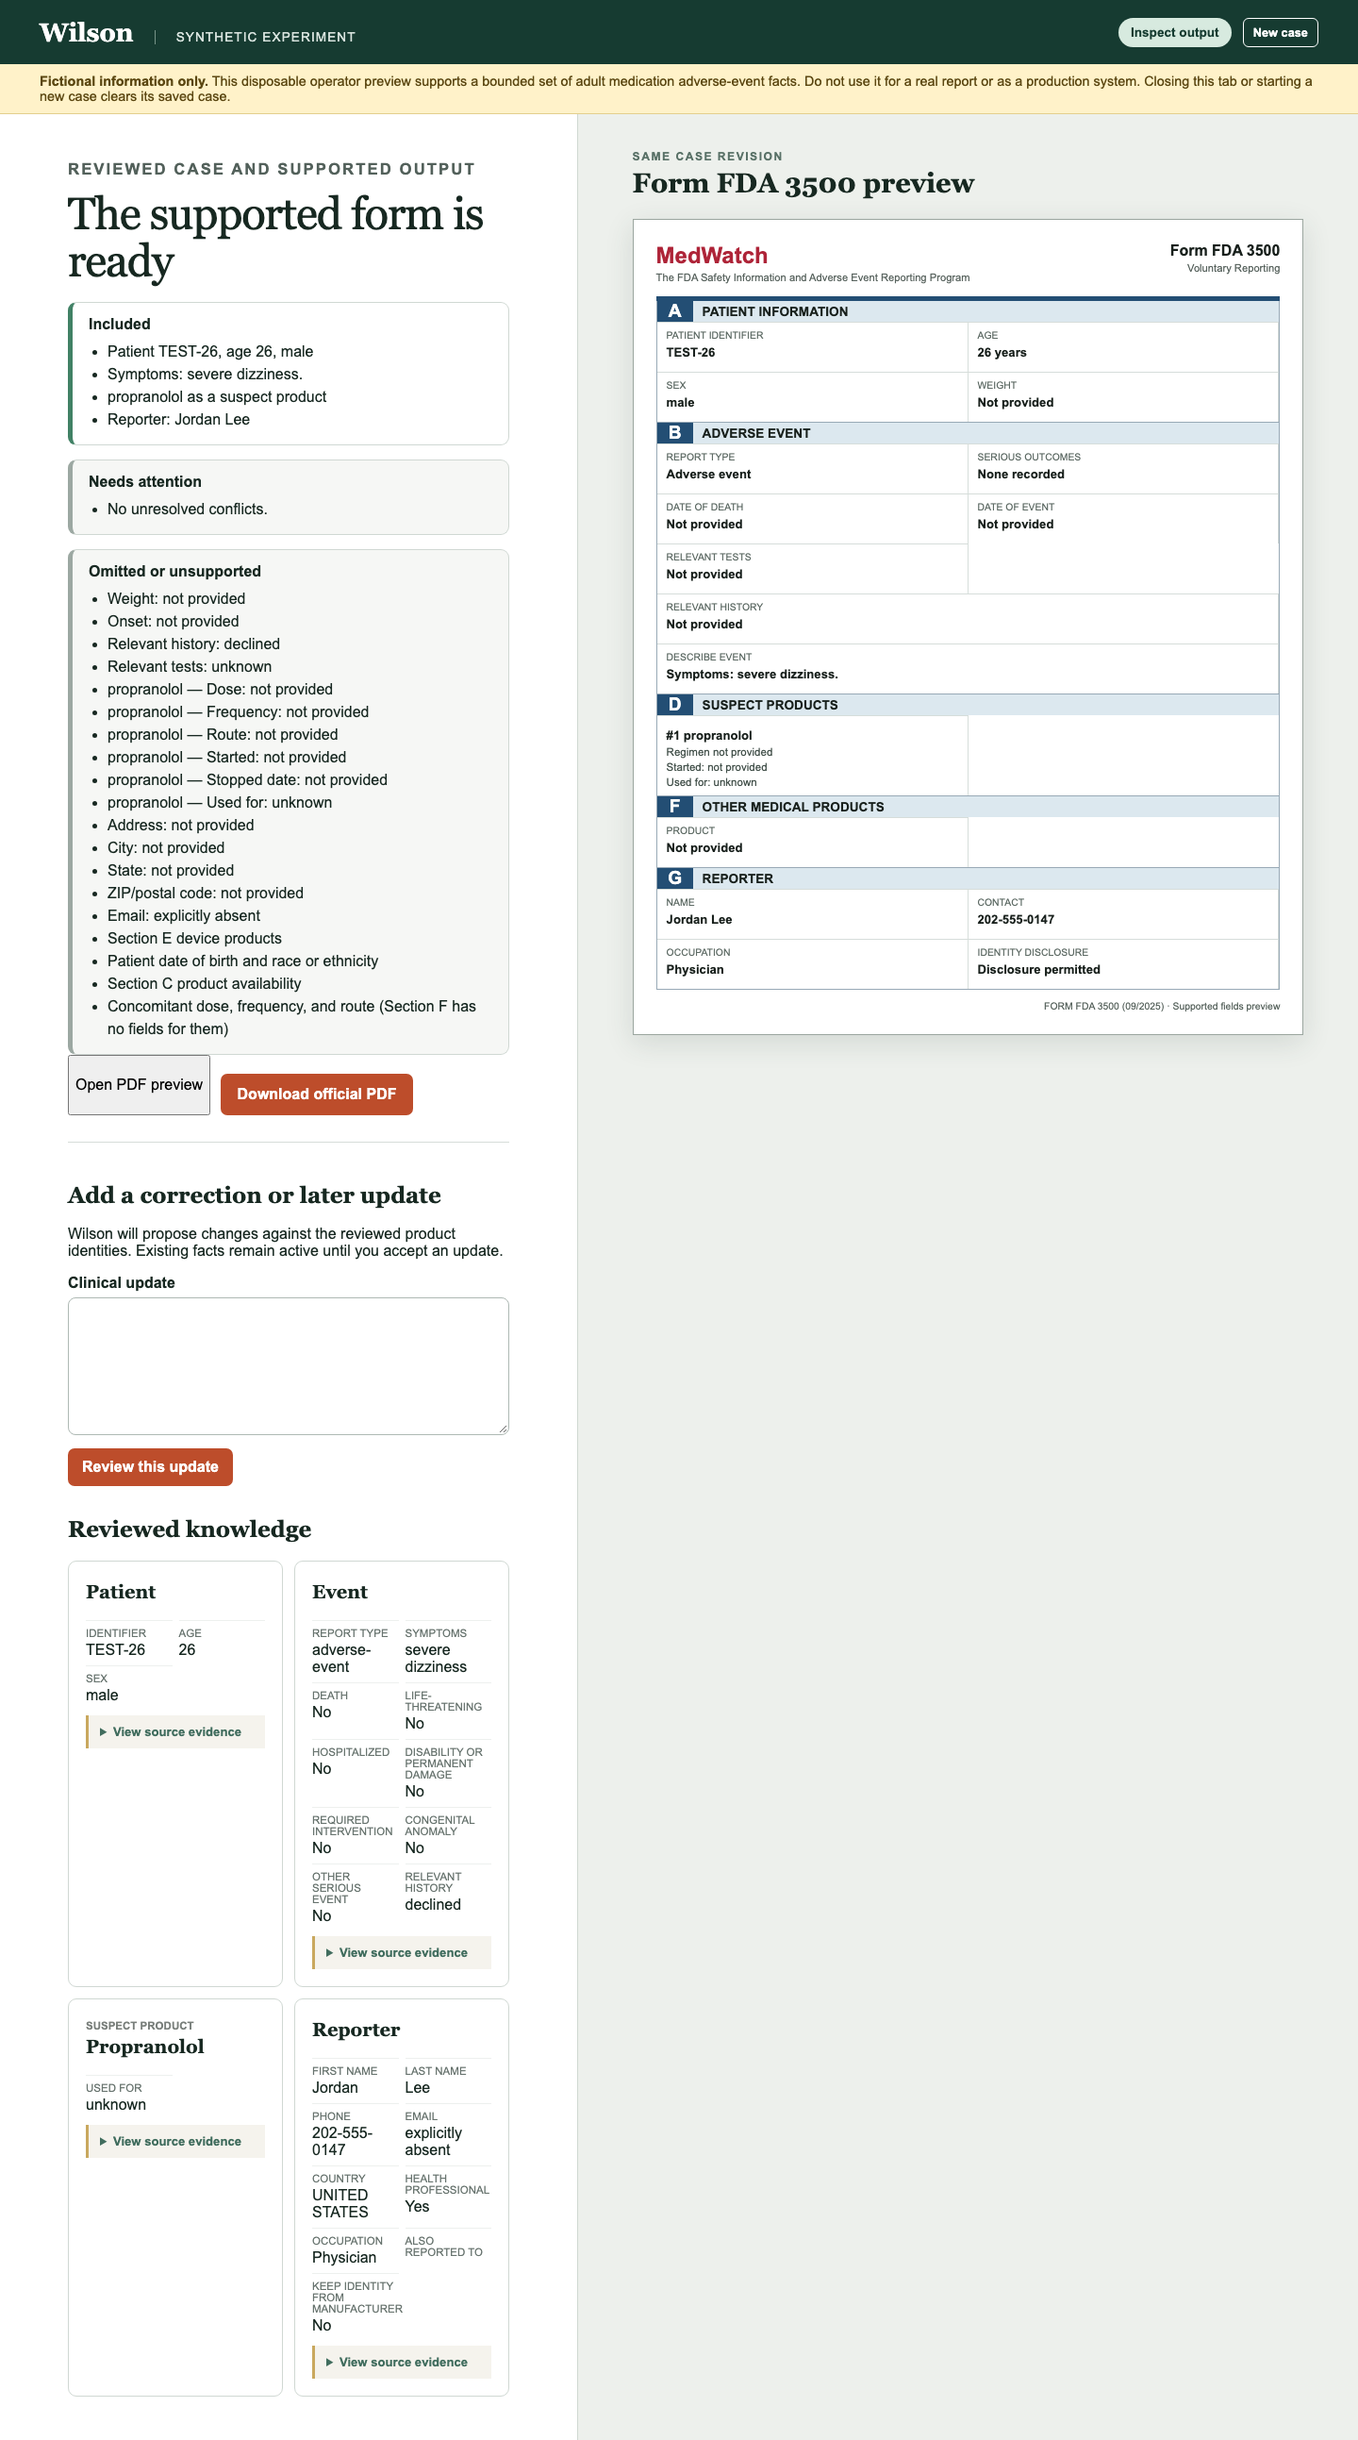
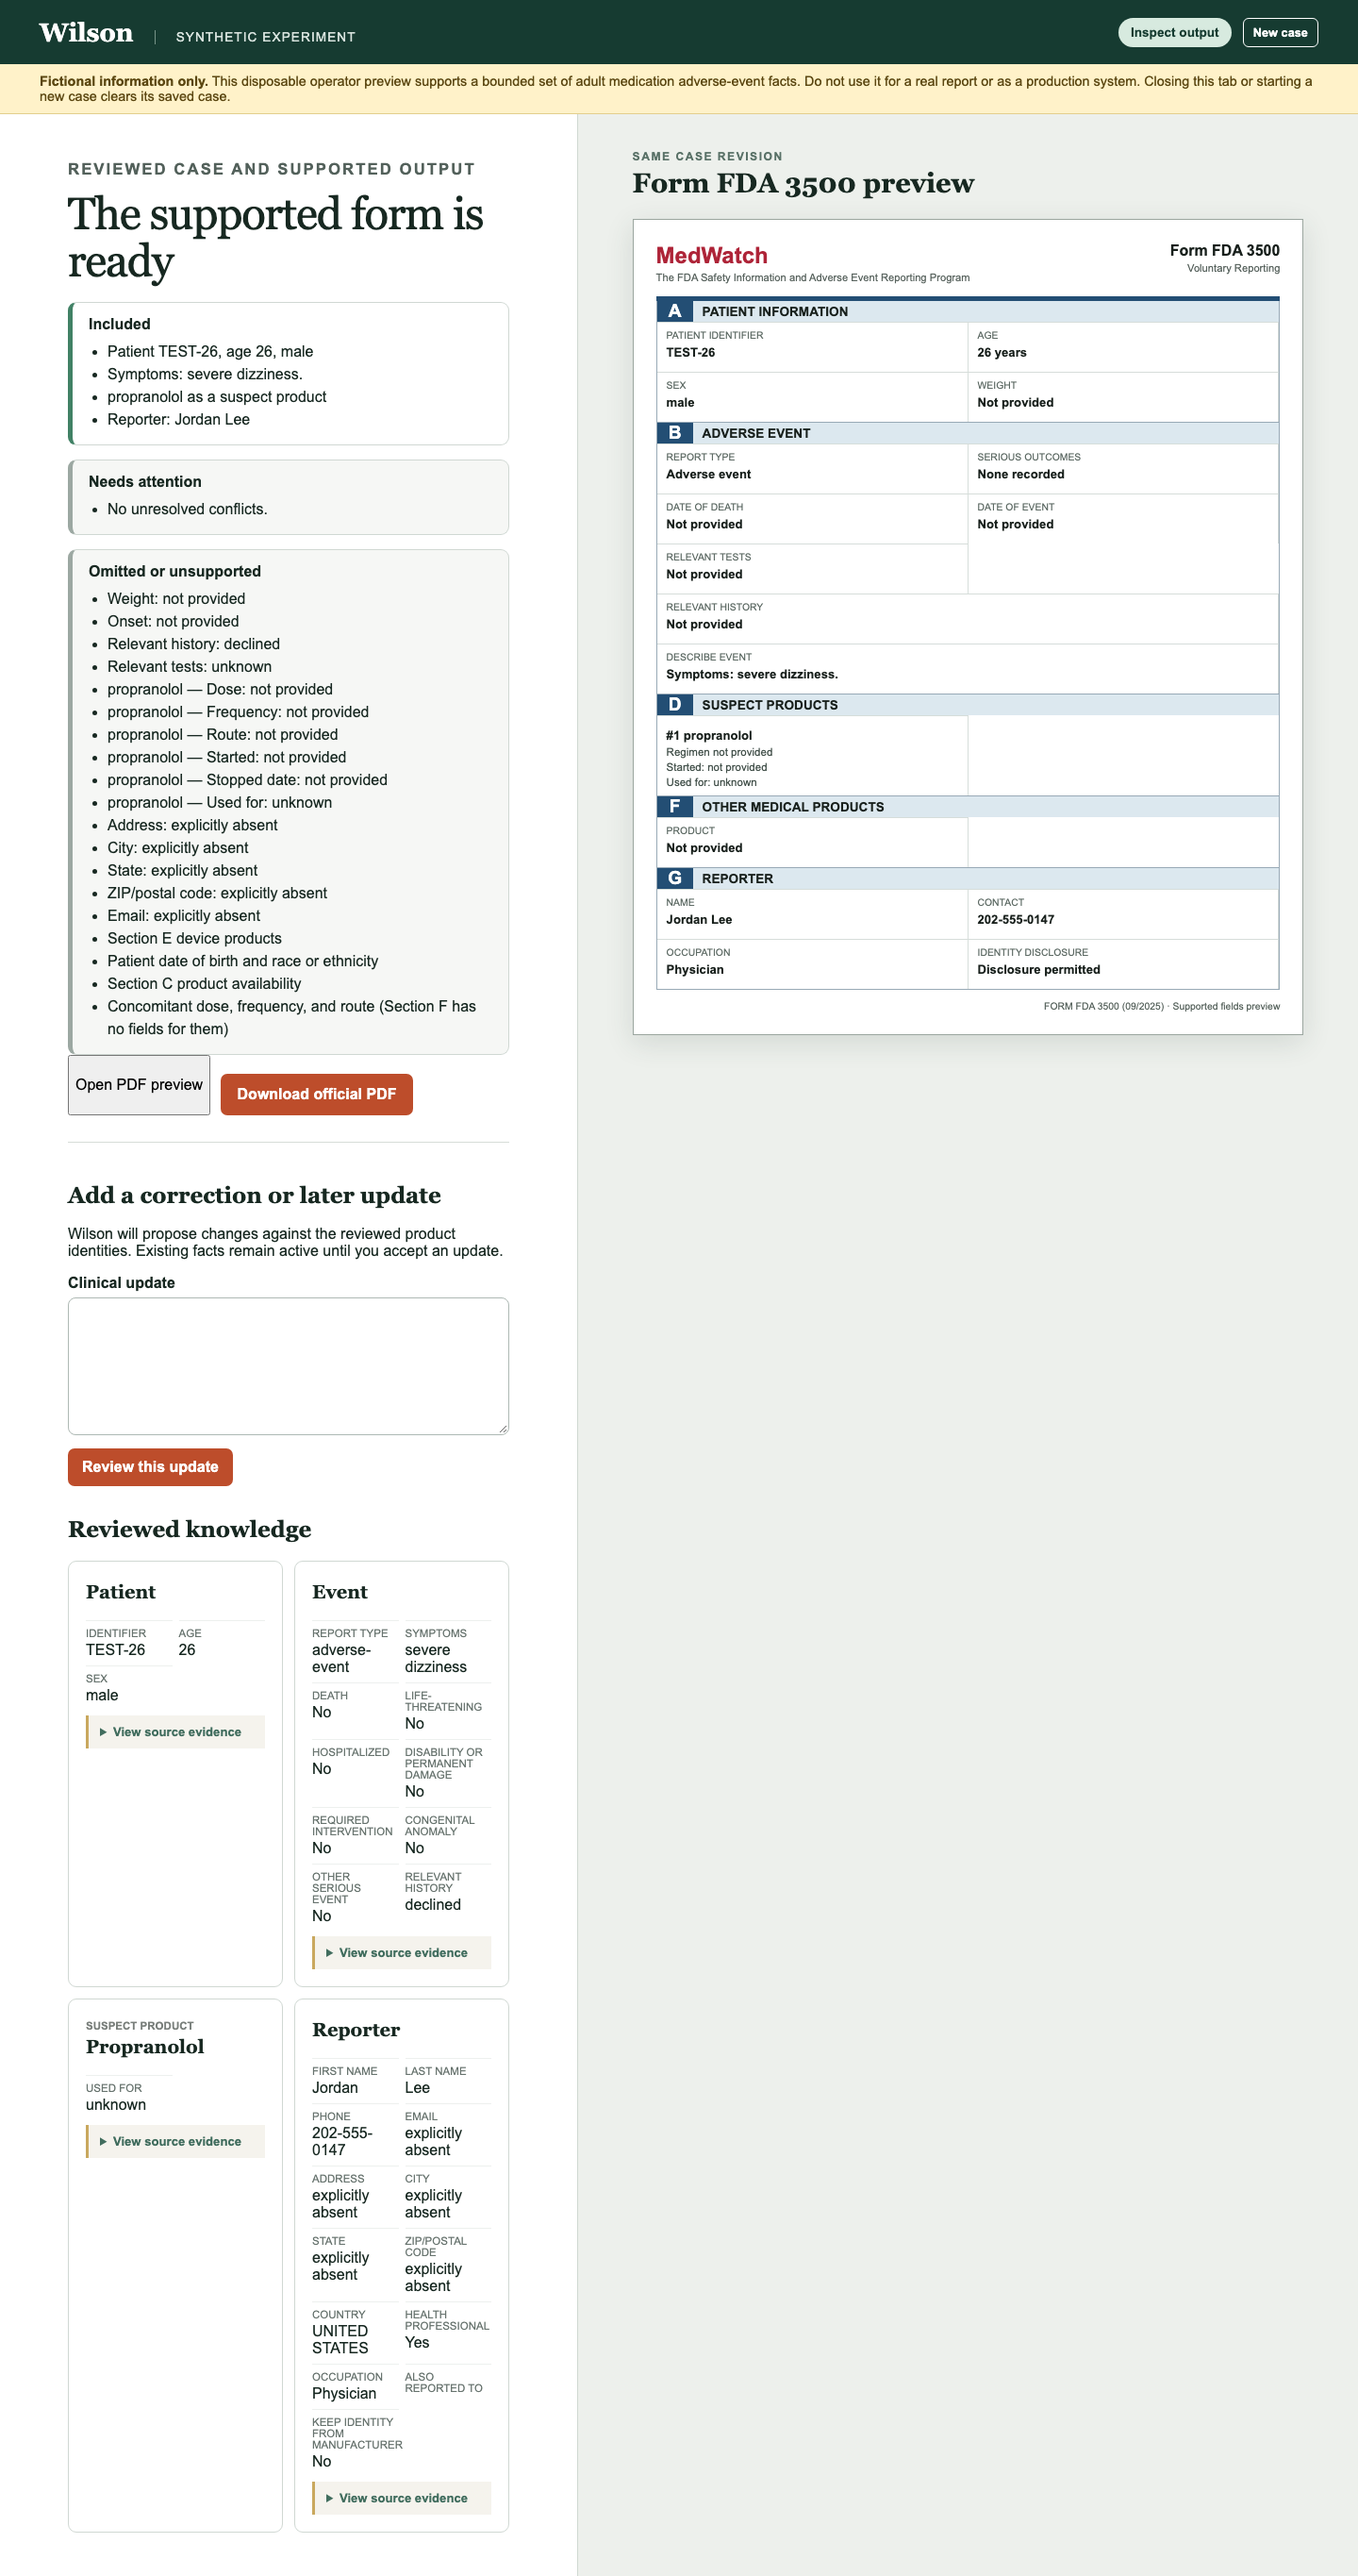
Resolve adaptive completion review follow-ups

Changed region(s): [[0.0312, 0.0, 0.9688, 0.5259], [0.0312, 0.5568, 0.3438, 0.9899], [0.0625, 0.7734, 0.1562, 0.8662]]

diff --git a/tests/pdf/adaptive-form-3500.test.ts b/tests/pdf/adaptive-form-3500.test.ts
@@ -14,6 +14,13 @@ const readerPath = fileURLToPath(new URL("../../tools/pdf/independent_readback.p
 
 describe("adaptive Form FDA 3500 projection fields", () => {
   it("round-trips the added patient, outcome, test, history, and reporter fields", async () => {
+    const relevantTests = Array.from({ length: 8 }, (_, index) => ({
+      testId: `test-${index + 1}`,
+      testResult: index === 0 ? "Serum tryptase: 18 ng/mL" : `Test ${index + 1}: result ${index + 1}`,
+      lowRange: index === 0 ? "0 ng/mL" : `low ${index + 1}`,
+      highRange: index === 0 ? "11.4 ng/mL" : `high ${index + 1}`,
+      date: `2026-09-0${index + 1}`,
+    }));
     const projection: Form3500Projection = {
       revision: 1,
       sections: {
@@ -22,7 +29,7 @@ describe("adaptive Form FDA 3500 projection fields", () => {
           reportType: "adverse-event", eventDate: "2026-09-03", eventDescription: "Symptoms: generalized rash and wheezing.",
           death: false, lifeThreatening: true, hospitalized: true, disability: false, requiredIntervention: false,
           congenitalAnomaly: false, otherSerious: false, relevantHistory: "Penicillin allergy",
-          relevantTests: [{ testId: "test-1", testResult: "Serum tryptase: 18 ng/mL", lowRange: "0 ng/mL", highRange: "11.4 ng/mL", date: "2026-09-03" }],
+          relevantTests,
         },
         D: { suspectProducts: [] },
         F: { concomitantProducts: [] },
@@ -50,6 +57,12 @@ describe("adaptive Form FDA 3500 projection fields", () => {
       "topmostSubform[0].Page1[0].SecA_Patient[0].LifeThreaten[0]": "/1",
       "topmostSubform[0].Page3[0].Sec6Data[0].OtherHistory[0]": "Penicillin allergy",
       "topmostSubform[0].Page3[0].TestDataTable[0].Row1[0].TestData1[0]": "Serum tryptase: 18 ng/mL",
+      "topmostSubform[0].Page3[0].TestDataTable[0].Row2[0].TestData2[0]": "Test 2: result 2",
+      "topmostSubform[0].Page3[0].TestDataTable[0].Row7[0].TestData7[0]": "Test 7: result 7",
+      "topmostSubform[0].Page3[0].TestDataTable[0].Row8[0].THighRange7[0]": "high 7",
+      "topmostSubform[0].Page3[0].TestDataTable[0].Row8[0].TDate7[0]": "07-SEP-2026",
+      "topmostSubform[0].Page3[0].TestDataTable[0].Row8[0].TestData8[0]": "Test 8: result 8",
+      "topmostSubform[0].Page3[0].TestDataTable[0].Row8[0].TDate8[0]": "08-SEP-2026",
       "topmostSubform[0].Page7[0].SecG_Reporter[0].LastName[0]": "Chen",
       "topmostSubform[0].Page7[0].SecG_Reporter[0].IdentityNo[0]": "/1",
       "topmostSubform[0].Page7[0].SecG_Reporter[0].Packer[0]": "/1",

diff --git a/tests/e2e/assembled-journeys.spec.ts b/tests/e2e/assembled-journeys.spec.ts
@@ -80,6 +80,7 @@ test("runs adaptive completion plus all Experiment 1 and 2 deterministic regress
   await expect(page.getByRole("heading", { name: "The supported form is ready" })).toBeVisible();
   await expect(page.locator("li").filter({ hasText: "Relevant tests: unknown" })).toBeVisible();
   await expect(page.locator("li").filter({ hasText: "Relevant history: declined" })).toBeVisible();
+  await expect(page.locator("li").filter({ hasText: "Address: explicitly absent" })).toBeVisible();
   checkpoints.push({ journey: "adaptive-sparse", state: "partial-output", assertion: "Four grouped prompts captured unknown and refusal once, exposed omissions, and allowed truthful partial output." });
   await retainScreenshot(page, "adaptive-sparse-output.png");
   await downloadAndCheck(page, "adaptive-sparse", ["TEST-26", "propranolol", "Jordan", "Lee", "202-555-0147"], ["Serum tryptase: 18 ng/mL"]);

diff --git a/app/journey.tsx b/app/journey.tsx
@@ -288,7 +288,7 @@ function SeriousOutcomesTask({ snapshot, busy, act }: {
   }));
   return <>
     <h1 id="task-title">{question?.question}</h1>
-    <p>Select every additional outcome that applies. Accepted outcomes are shown and will not be asked again.</p>
+    <p>Select every additional outcome that applies. Leaving an available outcome unchecked records that it did not apply. Accepted outcomes are shown and will not be asked again.</p>
     <fieldset className={styles.answerGroup}>
       <legend>Serious outcomes</legend>
       {(Object.entries(seriousOutcomeLabels) as Array<[SeriousOutcomeKey, string]>).map(([field, label]) => <label key={field}>

diff --git a/tests/server/anthropic-journey.test.ts b/tests/server/anthropic-journey.test.ts
@@ -25,15 +25,15 @@ const recordedAt = "2026-09-09T01:00:00.000Z";
 const reviewedCase: ReviewedCaseModelContext = {
   patient: [{ field: "identifier", value: { kind: "known", value: "SYN-1" } }],
   event: [{ field: "symptoms", value: { kind: "known", value: ["rash"] } }],
-      products: [{
+  products: [{
     id: "product-a-opaque",
     name: "Product A",
     facts: [
       { field: "name", value: { kind: "known", value: "Product A" } },
       { field: "dose", value: { kind: "known", value: "10 mg" } },
     ],
-      }],
-      relevantTests: [],
+  }],
+  relevantTests: [],
 };
 
 const opaqueIds: Record<string, string> = {

diff --git a/src/server/journey/service.ts b/src/server/journey/service.ts
@@ -611,7 +611,9 @@ function reporterFacts(reporter: Extract<JourneyAction, { action: "answer-report
     fact("doNotDiscloseIdentity", { kind: "known", value: reporter.doNotDiscloseIdentity }),
   ];
   for (const field of ["address", "city", "state", "postalCode", "country"] as const) {
-    if (reporter[field]) facts.push(fact(field, { kind: "known", value: reporter[field] }));
+    facts.push(fact(field, reporter[field]?.trim()
+      ? { kind: "known", value: reporter[field].trim() }
+      : { kind: "explicitly-absent" }));
   }
   return facts;
 }

diff --git a/evidence/issue-57/README.md b/evidence/issue-57/README.md
@@ -54,6 +54,11 @@ ranges, history, product data, reporter contact data, occupation, prior-report
 targets, and the identity-disclosure control. Sparse omitted values stayed
 absent rather than being invented.
 
+The focused adapter test also fills all eight supported test rows and asserts
+the pinned form's irregular row-7/row-8 high-range and date widget locations,
+so those mappings are protected in routine CI even though the acceptance
+journeys need only one relevant test.
+
 `adaptive-rich-pdf-page-{1,2,3,4,7}.png` are independent PDFKit renders of the
 retained rich PDF. Manual inspection confirmed that the official FDA/MedWatch
 identity and eight-page form layout remain intact and that Sections A, B, D,
